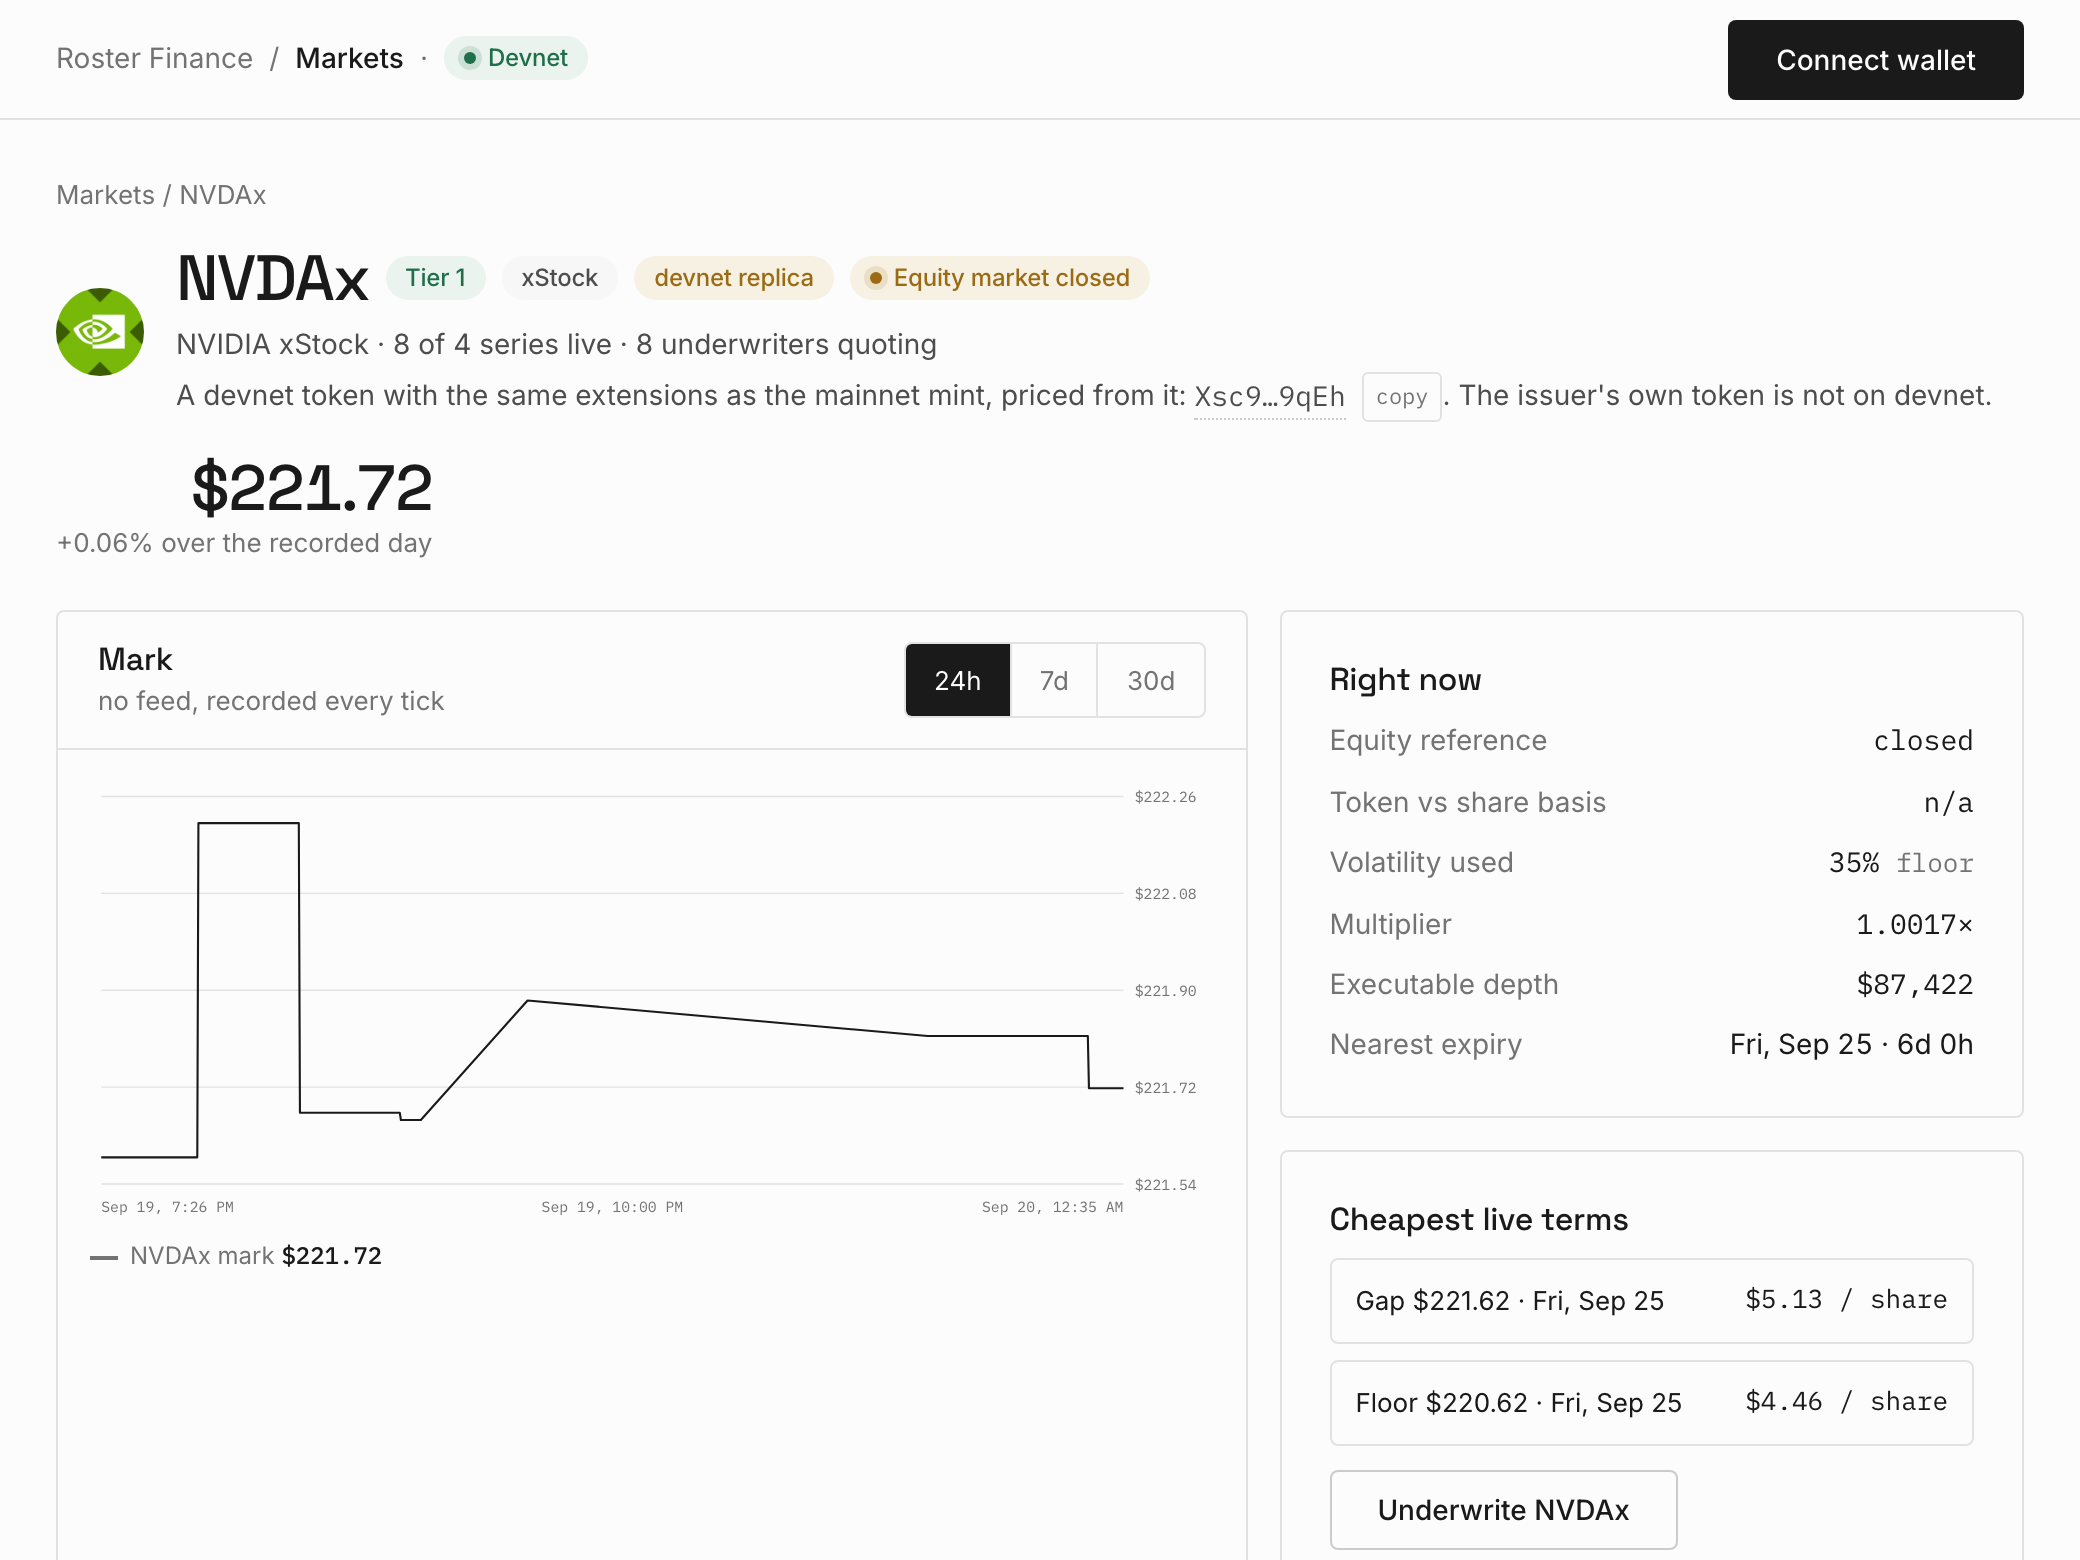
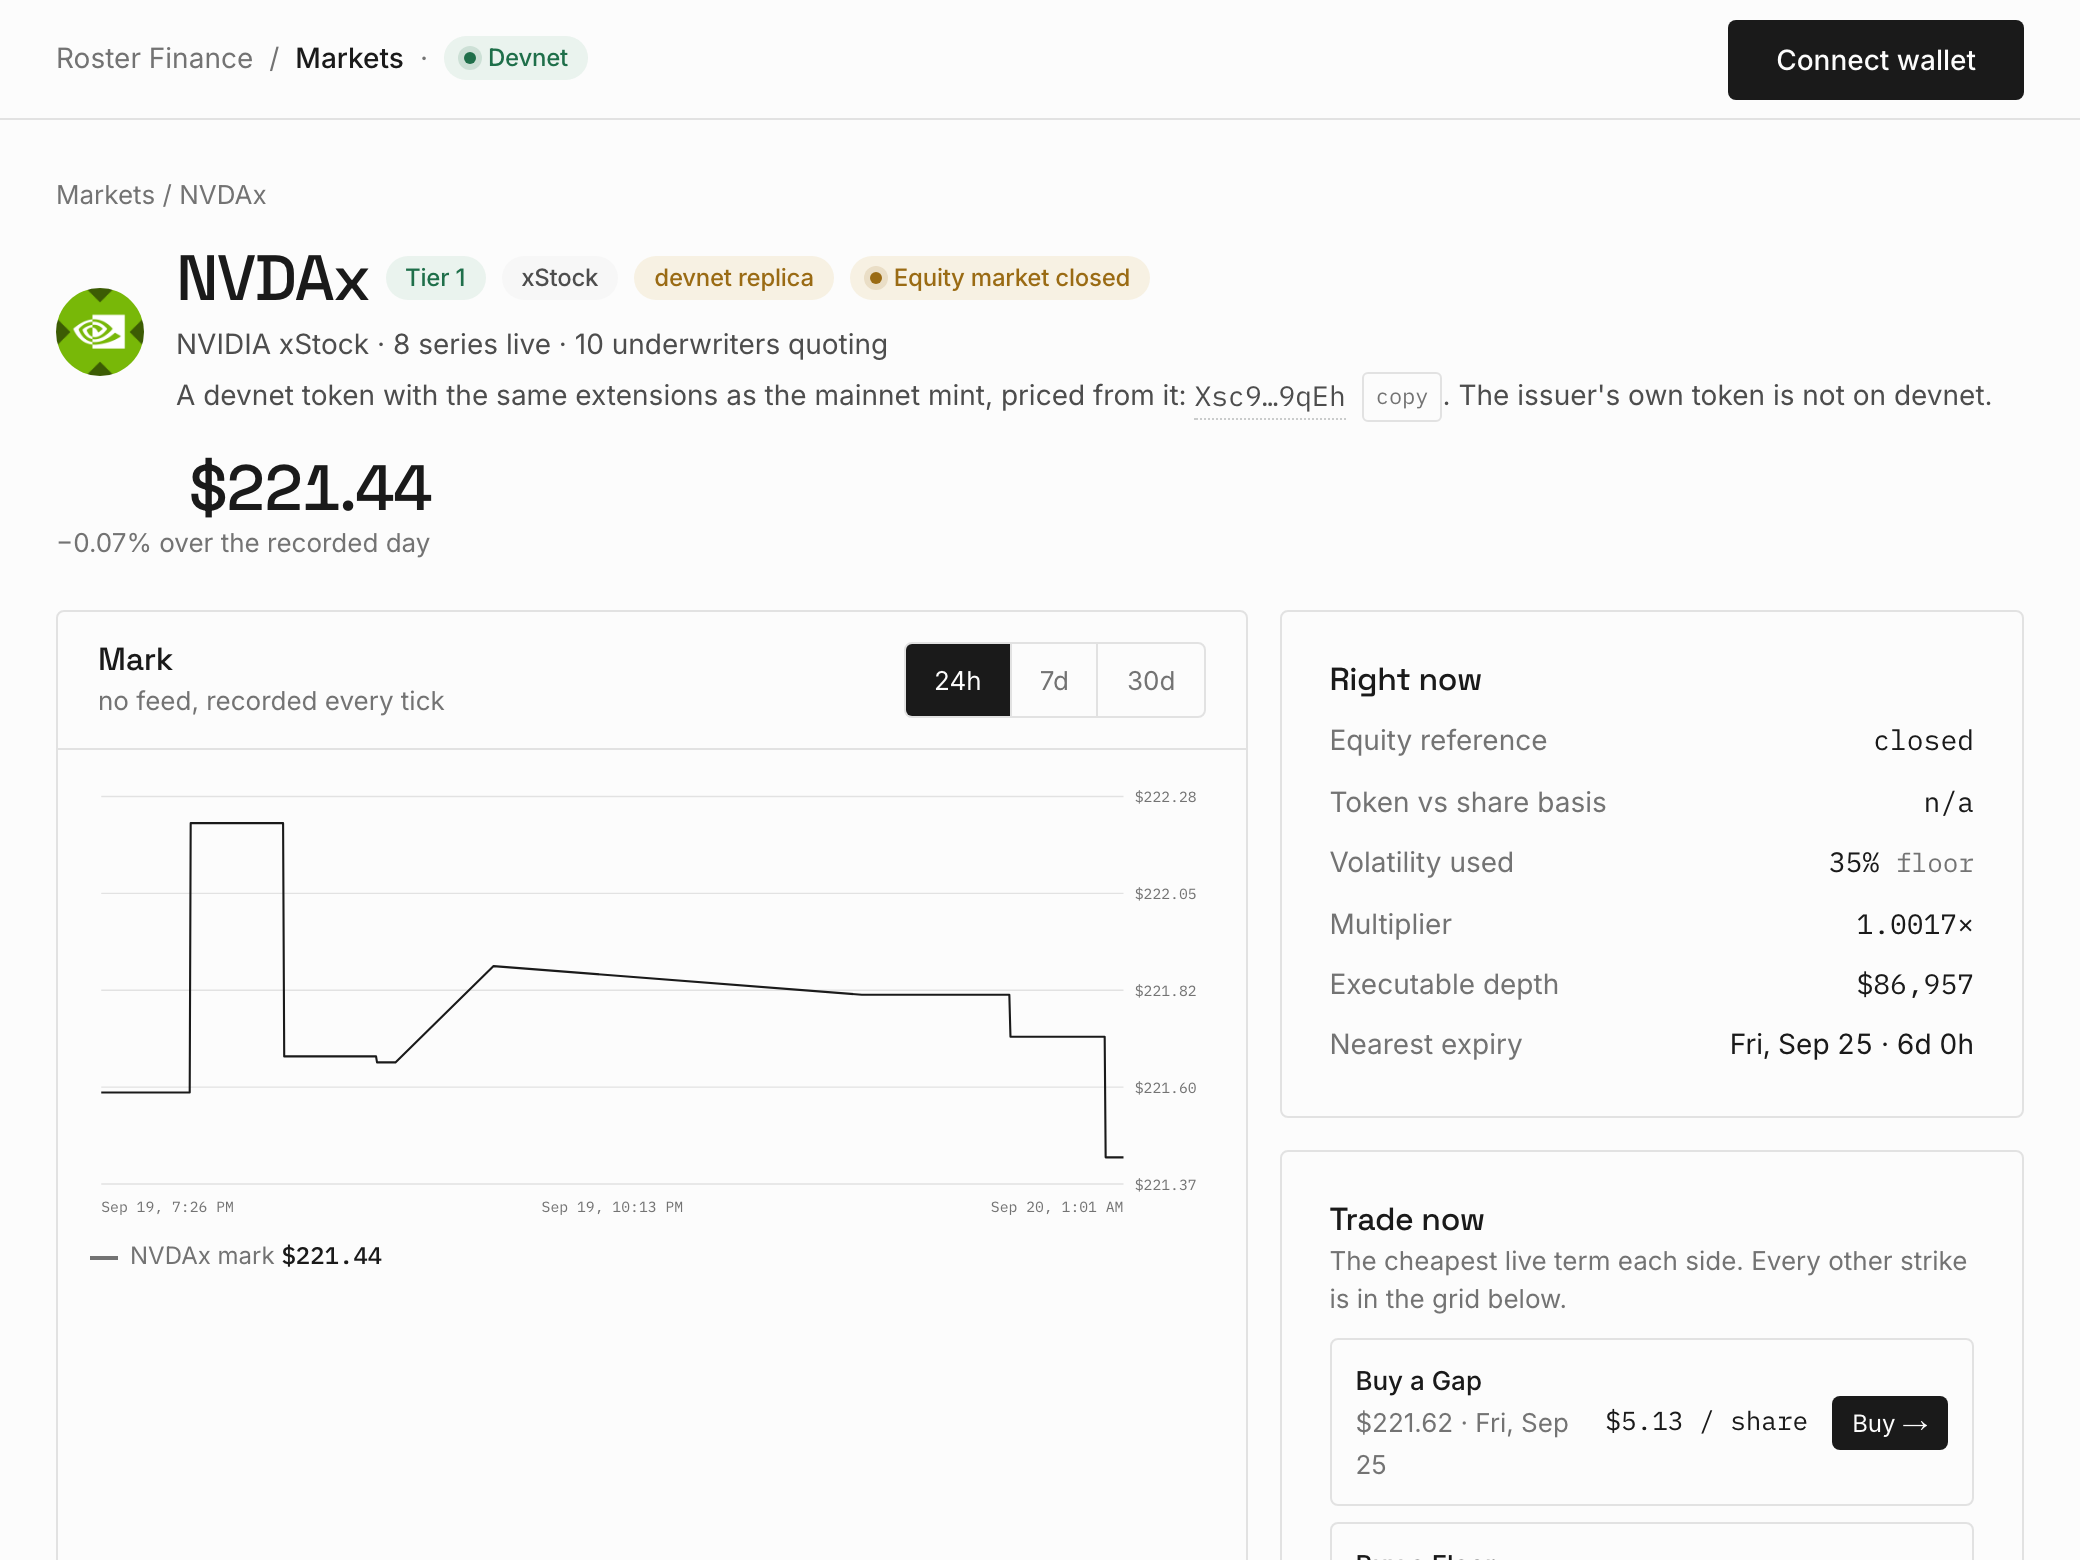
The buy is the first thing on a market page
The two cheapest terms were drawn as information and the grid sat below the
fold, so a person with funds asked where the buy was. They are now "Buy a Gap"
and "Buy a Floor" with a Buy button each, under a heading that says trade now
and points at the grid for every other strike.

"8 of 4 series live" read as an error after the devnet caps were lowered under
the count that already existed; a market over its cap just says how many live.

diff --git a/apps/web/src/app/(app)/markets/[symbol]/page.tsx b/apps/web/src/app/(app)/markets/[symbol]/page.tsx
@@ -68,7 +68,7 @@ export default function MarketPage({ params }: { params: Promise<{ symbol: strin
               {m.replicaOf ? <Badge tone="amber">devnet replica</Badge> : null}
               <Badge tone={data.session === "regular" ? "green" : "amber"} dot>{SESSION_LABEL[data.session]}</Badge>
             </div>
-            <p className="body-sm" style={{ margin: "4px 0 0" }}>{m.name} · {m.liveSeries} of {m.maxLiveSeries} series live · {live.length} underwriter{live.length === 1 ? "" : "s"} quoting</p>
+            <p className="body-sm" style={{ margin: "4px 0 0" }}>{m.name} · {m.liveSeries > m.maxLiveSeries ? `${m.liveSeries} series live` : `${m.liveSeries} of ${m.maxLiveSeries} series live`} · {live.length} underwriter{live.length === 1 ? "" : "s"} quoting</p>
             {m.replicaOf ? (
               <p className="small muted" style={{ margin: "4px 0 0" }}>
                 A devnet token with the same extensions as the mainnet mint, priced from it:{" "}
@@ -113,10 +113,11 @@ export default function MarketPage({ params }: { params: Promise<{ symbol: strin
             </div>
           </div>
           <div className="card pad">
-            <div className="h6">Cheapest live terms</div>
+            <div className="h6">Trade now</div>
+            <div className="small muted" style={{ marginTop: 2 }}>The cheapest live term each side. Every other strike is in the grid below.</div>
             <div style={{ marginTop: 10, display: "grid", gap: 8 }}>
-              {bestGap[0] ? <Link className="term-pick" href={`/trade/${bestGap[0].id}`}><span>Gap ${usdK(bestGap[0].strike)} · {dayLabel(bestGap[0].expiryTs)}</span><span className="mono">${usd(bestGap[0].ladder[0]!.ask!)} / share</span></Link> : <div className="small muted">No Gap quoted right now.</div>}
-              {bestFloor[0] ? <Link className="term-pick" href={`/trade/${bestFloor[0].id}`}><span>Floor ${usdK(bestFloor[0].strike)} · {dayLabel(bestFloor[0].expiryTs)}</span><span className="mono">${usd(bestFloor[0].ladder[0]!.ask!)} / share</span></Link> : <div className="small muted">{m.hasTransferFee ? "Floors wait for fee-inclusive settlement on this mint." : "No Floor quoted right now."}</div>}
+              {bestGap[0] ? <Link className="term-pick" href={`/trade/${bestGap[0].id}`} data-testid="buy-gap"><span><b>Buy a Gap</b> <span className="muted">${usdK(bestGap[0].strike)} · {dayLabel(bestGap[0].expiryTs)}</span></span><span className="mono">${usd(bestGap[0].ladder[0]!.ask!)} / share</span><span className="pick-go">Buy →</span></Link> : <div className="small muted">No Gap quoted right now.</div>}
+              {bestFloor[0] ? <Link className="term-pick" href={`/trade/${bestFloor[0].id}`} data-testid="buy-floor"><span><b>Buy a Floor</b> <span className="muted">${usdK(bestFloor[0].strike)} · {dayLabel(bestFloor[0].expiryTs)}</span></span><span className="mono">${usd(bestFloor[0].ladder[0]!.ask!)} / share</span><span className="pick-go">Buy →</span></Link> : <div className="small muted">{m.hasTransferFee ? "Floors wait for fee-inclusive settlement on this mint." : "No Floor quoted right now."}</div>}
               <Link className="btn secondary sm" href={`/underwrite?m=${m.symbol}`} style={{ justifySelf: "start", marginTop: 4 }}>Underwrite {m.symbol}</Link>
             </div>
           </div>

diff --git a/apps/web/src/app/globals.css b/apps/web/src/app/globals.css
@@ -674,8 +674,11 @@ select.field { appearance: none; padding-right: 28px; background-image: linear-g
 .depth-bar { display: block; height: 6px; background: var(--surface); border-radius: 2px; overflow: hidden; }
 .depth-bar i { display: block; height: 100%; background: var(--ink); }
 .depth .mono { font-size: 13px; white-space: nowrap; }
-.term-pick { display: flex; justify-content: space-between; gap: 12px; padding: 10px 12px; border: 1px solid var(--line); border-radius: 4px; font-size: 13px; color: var(--ink); }
-.term-pick:hover { background: var(--surface); }
+.term-pick { display: grid; grid-template-columns: minmax(0, 1fr) auto auto; align-items: center; gap: 12px; padding: 10px 12px; border: 1px solid var(--line); border-radius: 4px; font-size: 13px; color: var(--ink); }
+.term-pick > span:first-child { min-width: 0; }
+.term-pick:hover { background: var(--surface); border-color: var(--line-strong); }
+.term-pick b { font-weight: 500; }
+.term-pick .pick-go { display: inline-block; padding: 4px 10px; white-space: nowrap; border-radius: 4px; background: var(--ink); color: var(--paper); font-family: var(--sans); font-size: 12px; }
 
 /* Payoff chart: the plot, its labels and the readout that follows the expected price. */
 .pchart { position: relative; width: 100%; }

diff --git a/apps/web/e2e/modal.spec.ts b/apps/web/e2e/modal.spec.ts
@@ -18,7 +18,7 @@ for (const [w, h] of [[1280, 900], [390, 844]] as const) {
     expect(box.y + box.height).toBeLessThanOrEqual(h);
     expect(box.x).toBeGreaterThanOrEqual(0);
     // The topmost element at the modal's centre is the modal, not the app's header or nav.
-    const top = await page.evaluate(([x, y]) => document.elementFromPoint(x, y)?.closest(".wallet-adapter-modal-wrapper") !== null, [box.x + box.width / 2, box.y + 20]);
+    const top = await page.evaluate(({ x, y }) => document.elementFromPoint(x, y)?.closest(".wallet-adapter-modal-wrapper") !== null, { x: box.x + box.width / 2, y: box.y + 20 });
     expect(top).toBe(true);
     await expect(page.getByRole("button", { name: /burner wallet/i })).toBeVisible();
     await page.screenshot({ path: `e2e/screenshots/wallet-modal-${w}.png` });
